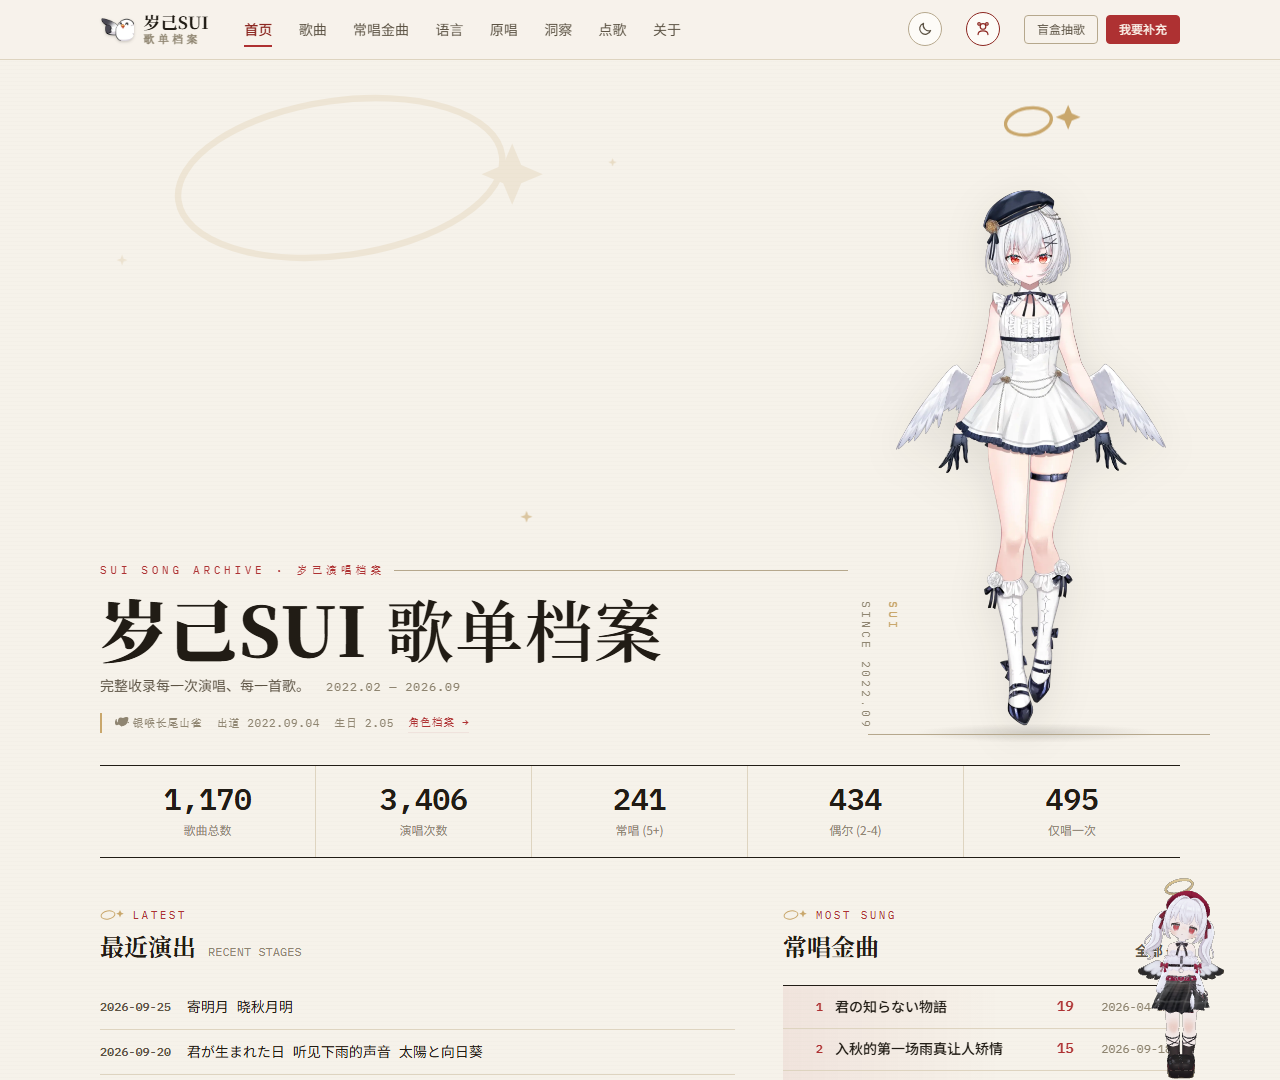
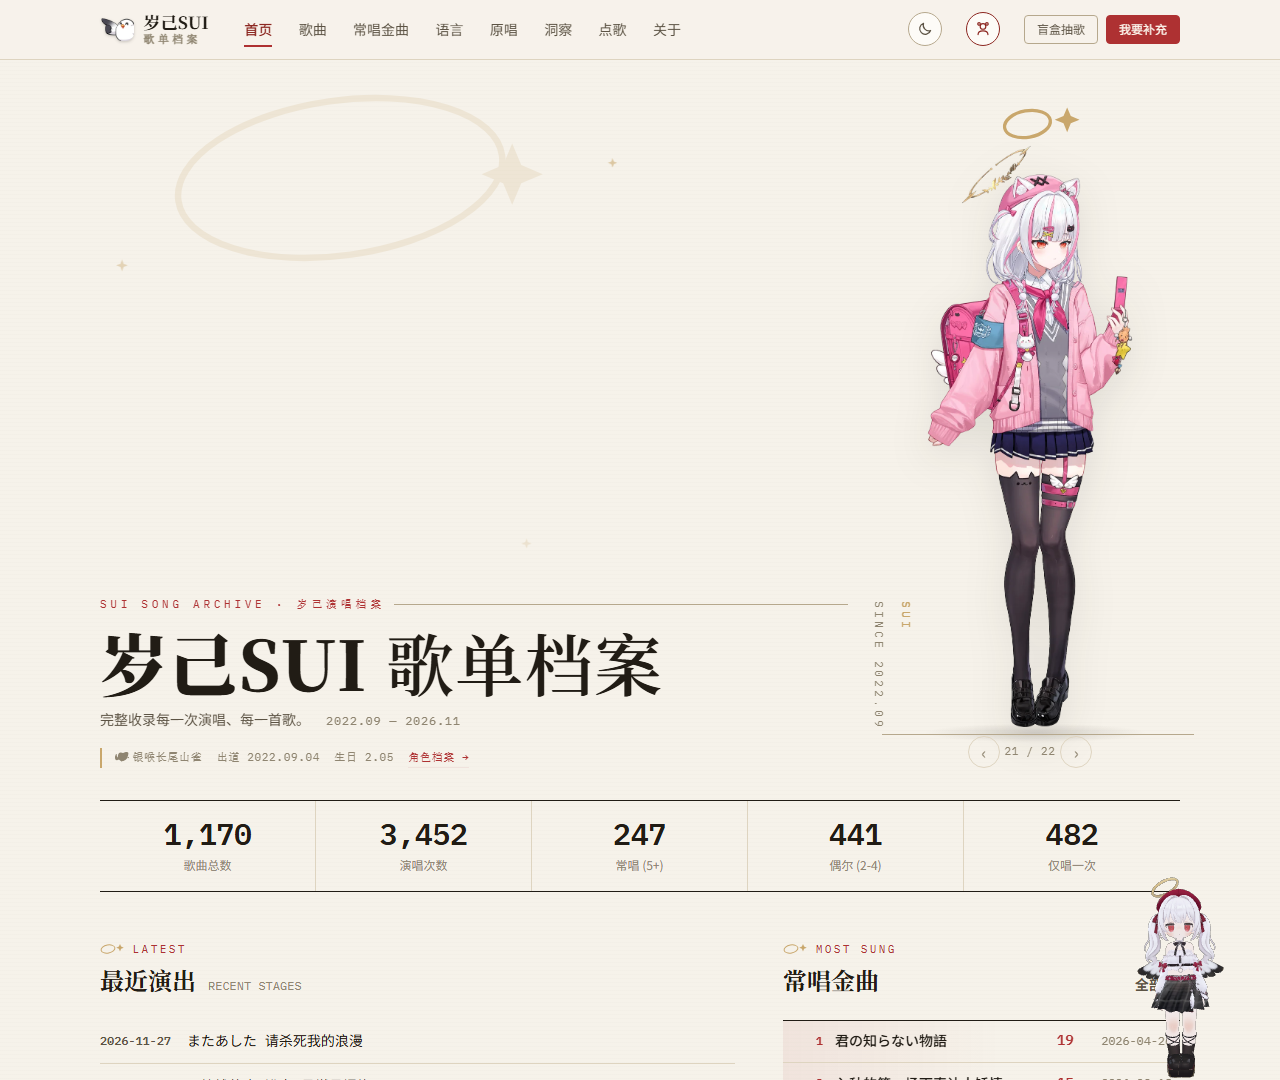
docs: GitHub 仓库首页 README 同步到 v3.7.22（立绘顺序轮换/断档之最/搜索光标修复）+ 重拍首页截图（统计 1170/3452、立绘 21/22）

diff --git a/README.md b/README.md
@@ -1,8 +1,8 @@
-# 岁己SUI 歌单档案 · v3.7.19
+# 岁己SUI 歌单档案 · v3.7.22
 
 > 为虚拟主播 [岁己SUI](https://space.bilibili.com/1954091502) 打造的演唱档案网站。
 > **v3.0 全新重制**：数据与功能继承历代版本，页面结构、视觉系统、组件架构与交互完全从零重建。
-> 当前界面版本 **v3.7.19**（历次迭代见站内「关于」页更新日志）。
+> 当前界面版本 **v3.7.22**（历次迭代见站内「关于」页更新日志）。
 
 收录 **1,170** 首歌曲、**3,452** 次演唱记录、**910** 条点歌互动，支持在线播放 B站录播片段。
 
@@ -50,9 +50,13 @@ v3.0 采用「演出场刊 / 唱片目录」式的编辑排版系统，与旧版
 - **左上角品牌位**（小鸟 Logo + 「岁己SUI 歌单档案」）整块可点击，**新标签页**前往
   [岁己SUI 的 B站个人空间](https://space.bilibili.com/1954091502)；带 `rel="noopener noreferrer"`，
   悬停有指针手势与轻微反馈，桌面端与移动端一致（地址常量：`scripts/sitegen/builder.py` 的 `BILI_SPACE_URL`）
-- **首页主视觉立绘随机轮换**：每次打开/刷新从候选清单随机抽一张，同一会话内不与上一张重复；
-  占位盒固定比例（切换不跳动）、加载淡入、图片失效自动退回兜底图
-  （候选清单：`scripts/sitegen/builder.py` 的 `HERO_ART`）
+- **首页主视觉立绘顺序轮换（v3.7.21）**：候选 22 张（3 张旧立绘 + 19 张透明底 PNG），按
+  `scripts/sitegen/builder.py` 的 `HERO_ART` 清单顺序每 **5.6 秒**切换一张、末尾回环；
+  首次打开接着上次会话的下一张，立绘下方有「‹ 序号 / 总数 ›」上一张/下一张手动切换，
+  悬停或键盘聚焦、滚出视口、后台标签页均自动暂停，开启「减弱动效」时不自动轮换。
+  占位盒固定比例（切换不跳动）、淡入过渡；加载失败先退回默认立绘，全部失败显示虚线占位图。
+  新增立绘由 `scripts/build_hero_assets.py` 统一裁人物包围盒、限高 1600、压成 WebP，
+  白底 JPG 不抠图、直接不采用
 - **首页「盲盒抽歌」**：右下角（原「点歌速览」位置）改为盲盒 —— 上方池子纵向自然滚动，随机抽样
   24 首循环经过（每次打开都是新的一批），下方一键抽取，复用顶栏盲盒的滚轮动画与结果面板
   （歌名 / 原唱 / 语言 / 演唱次数 + 播放或去 B站搜）；
@@ -63,12 +67,17 @@ v3.0 采用「演出场刊 / 唱片目录」式的编辑排版系统，与旧版
   点歌名直达歌曲详情。判定全在构建期完成（`sitegen/datalayer.py`，口径见 AGENTS.md 规则 24），
   数据里没有复唱时该段整段不渲染；左栏末段与右栏「盲盒抽歌」底边对齐（`views.css` 的 `.home-col`），
   「最近演出」相应由 12 天收到 8 天以免两栏高度失衡
+- **「久别重逢之最」（v3.7.22）**：在复唱列表上方置顶一张金色徽记卡，展示**全部候选中断档最久**
+  才又登台的一首（歌名可点进详情、原唱、断档天数与「上次 ─▸ 复唱」时间轴）。
+  之最从完整候选按实际间隔天数挑出，不受首页 6 首展示上限影响；构建期算好后前端只渲染
 
 ### 歌单浏览
 - **hash 路由多视图**：首页 / 全部歌曲 / 常唱金曲 / 语言分类 / 原唱分类 / 数据洞察 / 点歌统计 / 关于
-- **搜索**：歌名、译名、原唱实时过滤（防抖 220ms），命中关键词高亮；全部搜索框与
+- **搜索**：歌名、译名、原唱、别名实时过滤（防抖 220ms），命中关键词高亮；全部搜索框与
   「我要补充」表单均已关闭浏览器自动填充 / 输入历史（见 AGENTS.md 规则 21），
   不会把用户此前的搜索记录在聚焦时摊出来
+  （v3.7.20 起「全部歌曲」搜索只重画结果区、输入框节点常驻；必须整块重渲的页面则在重渲前后
+  原样恢复光标与选区，长文本中间连续退格不再被弹到末尾，联想下拉仍实时更新）
 - **筛选**：语言（中/日/英/韩）；快捷筛选 全部 / 常唱(5+) / 偶尔(2–4) / 仅唱一次 / 很久没唱(≥180天)；
   33 种流派与企划标签（含计数）
 - **排序**：演唱次数↓↑ / 歌曲名 / 最早演唱↑ / 最近演唱↓ / 最久没唱↑
